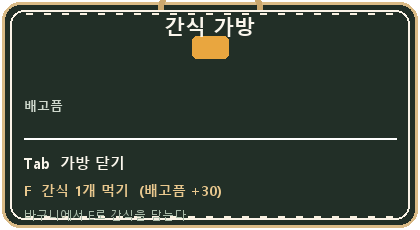
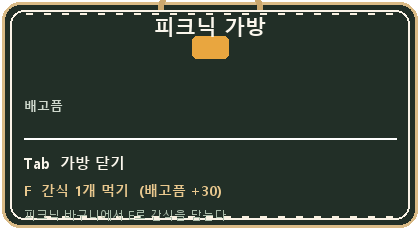
피크닉 바구니와 피크닉 가방으로 용어·이미지 변경

Changed region(s): [[0.3714, 0.0609, 0.65, 0.1826], [0.0619, 0.913, 0.5262, 0.9739]]

diff --git a/Project/pico_heist/game.py b/Project/pico_heist/game.py
@@ -58,7 +58,7 @@ FISH_COOLDOWN = 0.55    # 한 번 낚은 뒤 다시 시도할 수 있는 시간
 FISH_ANIM = 1.2         # 물고기가 떠오르는 연출 시간
 FISH_NOISE = 26.0       # 낚시 성공 시 발소리 대신 퍼지는 소음
 
-# ---- 배고픔 / 간식 바구니 (진짜 음식 규칙과 완전히 별개)
+# ---- 배고픔 / 피크닉 바구니 (진짜 음식 규칙과 완전히 별개)
 HUNGER_MAX = 100.0
 HUNGER_DRAIN = HUNGER_MAX / 150.0   # 아무것도 안 먹으면 약 150초에 0
 HUNGER_SLOW_AT = 60.0              # 이 값 아래서부터 화면이 어두워지고 느려진다
@@ -437,8 +437,8 @@ class Food:
         self.t = (index * 1.7) % 6.28
 
 
-class SnackBasket:
-    """맵에 놓인 작은 캔버스 간식 바구니 — 진짜 음식과 무관한 별도 자원."""
+class PicnicBasket:
+    """맵에 놓인 피크닉 바구니 — 안에 간식이 들어 있는 별도 자원."""
 
     def __init__(self, x, y, index, left=SNACK_PER_BASKET):
         self.x, self.y = float(x), float(y)
@@ -450,7 +450,7 @@ class SnackBasket:
         return self.left <= 0
 
     def sprite(self):
-        return "prop_snack_basket_open.png" if self.empty else "prop_snack_basket.png"
+        return "prop_picnic_basket_open.png" if self.empty else "prop_picnic_basket.png"
 
 
 class Game:
@@ -537,11 +537,11 @@ class Game:
         self.no_go = [tuple(r) for r in d["no_go"]]
         self.foods = [Food(k, x, y, FOOD_BASE[i] + j)
                       for j, (k, x, y) in enumerate(d["foods"])]
-        # 간식 바구니는 맵 데이터에 따로 있다 — 비운 바구니는 다시 오지 않아도 비어 있다.
-        self.baskets = [SnackBasket(x, y, j,
-                                    left=0 if (i, j) in self.emptied_baskets
-                                    else SNACK_PER_BASKET)
-                        for j, (x, y) in enumerate(d.get("snack_baskets", []))]
+        # 피크닉 바구니는 맵 데이터에 따로 있다 — 비운 바구니는 다시 오지 않아도 비어 있다.
+        self.baskets = [PicnicBasket(x, y, j,
+                                     left=0 if (i, j) in self.emptied_baskets
+                                     else SNACK_PER_BASKET)
+                        for j, (x, y) in enumerate(d.get("picnic_baskets", []))]
         self.prompt_basket = None
         self.campers = [Camper(c) for c in d["campers"]]
         self.player = Player(*d["player"])
@@ -620,7 +620,7 @@ class Game:
         food = Food(k, fx, fy, idx)
         food.collected = idx in self.collected
         self.foods = [food]
-        # 텐트 안에는 간식 바구니가 없다 (배고픔 상태는 그대로 유지).
+        # 텐트 안에는 피크닉 바구니가 없다 (배고픔 상태는 그대로 유지).
         self.baskets = []
         self.prompt_basket = None
         self.campers = [Camper(c) for c in t["campers"]]
@@ -689,7 +689,7 @@ class Game:
         self.solids, self.no_go = [], []
         self.campers = []
         self.foods = []
-        # 호숫가 배 위에는 간식 바구니가 없다.
+        # 호숫가 배 위에는 피크닉 바구니가 없다.
         self.baskets = []
         self.prompt_basket = None
         self.door = None
@@ -1416,7 +1416,7 @@ class Game:
         self.img("food_%s.png" % f.kind).draw(f.x, H - f.y + bob, 54, 54)
 
     def draw_basket(self, b):
-        """캔버스 간식 바구니 — 진짜 음식의 호박색 발광보다 훨씬 약하게 표시."""
+        """피크닉 바구니 — 진짜 음식의 호박색 발광보다 훨씬 약하게 표시."""
         self.img("shadow.png").draw(b.x, H - b.y + 6, 62, 20)
         im = self.img(b.sprite())
         im.draw(b.x, H - b.y + im.h / 2 - 3, im.w, im.h)
@@ -1631,7 +1631,7 @@ class Game:
                               else "hud_prompt_fish.png")
                 fi.draw(self.player.x, H - self.player.y + 92, fi.w, fi.h)
 
-        # Tab — 간식 가방 패널 (작은 천 주머니 UI, 월드 가상에 띄운다)
+        # Tab — 피크닉 가방 패널 (작은 천 주머니 UI, 월드 위에 띄운다)
         if self.state == "playing" and self.bag_open:
             self.img("hud_bag.png").draw(W / 2, H / 2, 420, 230)
             bx0 = W / 2 - 160

diff --git a/Project/pico_heist/art_sprites.py b/Project/pico_heist/art_sprites.py
@@ -428,35 +428,51 @@ def crate():
     return down(im, w, h)
 
 
-def snack_basket(open_=False):
-    """작은 캔버스 간식 꾸러미 — 나무 상자보다 작고 부드러운 캠핑 짐."""
-    w, h, ss = 72, 56, 3
+def picnic_basket(open_=False):
+    """캠핑장에 놓인 피크닉 바구니 — 짜인 라탄 손잡이와 체크 무늬 보자기."""
+    w, h, ss = 78, 62, 3
     im = Image.new("RGBA", (w * ss, h * ss), (0, 0, 0, 0))
     p = Pen(im, ss)
     if open_:
-        # 뒤로 젖혀진 뚜껑 + 비어 있는 어두운 내부
-        p.rr((14, 6, 58, 20), 4, "#D9BC88")
-        p.rr((14, 6, 58, 12), 3, "#C7A570")
-        p.ell((14, 18, 58, 32), "#4A3626")
-        p.ell((19, 21, 53, 30), "#5C4530")
+        # 뒤로 젖혀진 뚜껑 — 안쪽 체크 무늬가 보인다
+        p.rr((12, 6, 66, 20), 4, "#B98A4E")
+        p.rr((14, 8, 64, 17), 3, "#D6AE70")
+        for x in range(16, 64, 10):
+            p.pline([(x, 8), (x, 17)], "#8A6337", 1)
+        p.arc((22, 2, 56, 30), 190, 350, "#8A6337", 3)
+        p.ell((14, 20, 64, 32), "#3E2C1E")
+        p.ell((18, 22, 60, 30), "#C0563C")
+        for x in (24, 36, 48):
+            p.rr((x, 22, x + 5, 30), 1, "#F2E4C8")
     else:
-        # 손잡이와 덮개가 보이는 닫힌 바구니
-        p.arc((20, 6, 52, 32), 180, 360, "#6B4E32", 3)
-        p.rr((12, 18, 60, 30), 5, "#DCC08C")
-        p.rr((12, 18, 60, 24), 4, "#EAD3A6")
-    # 캔버스 몸체
-    p.rr((10, 24, 62, 50), 6, "#C9A36A")
-    p.rr((10, 24, 62, 32), 5, "#D7B57E")
-    for x in (23, 36, 49):
-        p.pline([(x, 32), (x, 49)], "#A9814C", 1)
-    # 가죽 끈
-    p.rr((16, 22, 22, 50), 2, "#6B4E32")
-    p.rr((50, 22, 56, 50), 2, "#6B4E32")
-    # 호박색 간식 라벨
-    p.rr((28, 34, 44, 46), 3, "#E9A63F")
-    p.rr((31, 37, 41, 43), 1, "#6B4E32")
-    if not open_:
-        p.rr((32, 27, 40, 34), 2, "#B97C22")
+        # 단단한 아치 손잡이
+        p.arc((18, 4, 60, 34), 180, 360, "#7A5630", 5)
+        p.arc((21, 7, 57, 31), 180, 360, "#C69A5C", 3)
+        # 체크 보자기가 살짝 삐져나온다
+        p.rr((14, 18, 64, 27), 3, "#F2E4C8")
+        for x in (20, 32, 44, 56):
+            p.rr((x, 18, x + 6, 27), 1, "#C0563C")
+    # 라탄 몸체 (아래로 살짝 좁아지는 사다리꼴)
+    p.poly([(10, 25), (68, 25), (61, 56), (17, 56)], "#B98A4E")
+    p.pline([(10, 25), (17, 56)], "#7A5630", 2)
+    p.pline([(68, 25), (61, 56)], "#7A5630", 2)
+    p.pline([(17, 56), (61, 56)], "#7A5630", 2)
+    # 짜임 — 가로 띠와 엇갈리는 세로 올
+    for y in (31, 39, 47):
+        p.pline([(12, y), (66, y)], "#8A6337", 2)
+        p.pline([(12, y + 3), (66, y + 3)], "#D6AE70", 1)
+    for y, xs in ((28, (18, 30, 42, 54, 64)),
+                  (36, (22, 34, 46, 58)),
+                  (44, (20, 32, 44, 56))):
+        for x in xs:
+            p.pline([(x, y), (x - 2, y + 7)], "#D6AE70", 1)
+    # 입구 테두리와 가죽 끈
+    p.rr((8, 21, 70, 29), 4, "#8A6337")
+    p.rr((8, 21, 70, 25), 3, "#D6AE70")
+    p.rr((20, 24, 26, 56), 2, "#6B4E32")
+    p.rr((52, 24, 58, 56), 2, "#6B4E32")
+    p.rr((34, 20, 44, 29), 2, "#E9A63F")
+    p.rr((37, 22, 41, 27), 1, "#6B4E32")
     return down(im, w, h)
 
 
@@ -697,8 +713,8 @@ def build_all():
     save(booth("#B97C22"), "prop_booth_amber.png")
     save(lantern(), "prop_lantern.png")
     save(crate(), "prop_crate.png")
-    save(snack_basket(False), "prop_snack_basket.png")
-    save(snack_basket(True), "prop_snack_basket_open.png")
+    save(picnic_basket(False), "prop_picnic_basket.png")
+    save(picnic_basket(True), "prop_picnic_basket_open.png")
     save(speaker(), "prop_speaker.png")
     save(bench(), "prop_bench.png")
     save(grill(), "prop_grill.png")

diff --git a/Project/pico_heist/maps.py b/Project/pico_heist/maps.py
@@ -46,8 +46,8 @@ MAPS = [
             ("apple", 240, 620),
             ("cheese", 900, 430),
         ],
-        # 간식 바구니 — 취사 구역 / 틸 텐트 옆. 진짜 음식 위치와 무관하다.
-        "snack_baskets": [(650, 585), (1100, 330)],
+        # 피크닉 바구니 — 취사 구역 / 틸 텐트 옆. 진짜 음식 위치와 무관하다.
+        "picnic_baskets": [(650, 585), (1100, 330)],
         "campers": [
             {"variant": 0, "path": [(420, 420), (860, 420)], "speed": 58, "wait": 1.3},
             {"variant": 2, "path": [(950, 415), (1120, 480), (980, 585), (870, 500)],
@@ -138,8 +138,8 @@ MAPS = [
             ("egg", 900, 300),
             ("fish", 880, 616),   # 마지막 음식 = 진짜 음식 (호수에서 낚시로 획득)
         ],
-        # 벤치 옆 / 상자 옆 육지에만 둔다 — 부두와 물 위에는 간식 바구니가 없다.
-        "snack_baskets": [(570, 420), (1060, 450)],
+        # 벤치 옆 / 상자 옆 육지에만 둔다 — 부두와 물 위에는 피크닉 바구니가 없다.
+        "picnic_baskets": [(570, 420), (1060, 450)],
         "campers": [
             {"variant": 1, "path": [(300, 405), (720, 405), (720, 300), (300, 300)],
              "speed": 50, "wait": 0.9},
@@ -214,7 +214,7 @@ MAPS = [
             ("soup", 1150, 420),
         ],
         # 테이블 옆 / 벤치 옆. 출구 동선을 막지 않게 살짝 비껴 둔다.
-        "snack_baskets": [(700, 540), (940, 630)],
+        "picnic_baskets": [(700, 540), (940, 630)],
         "campers": [
             {"variant": 0, "path": [(300, 420), (600, 420), (600, 560), (300, 560)],
              "speed": 52, "wait": 0.4},

diff --git a/Project/pico_heist/make_assets.py b/Project/pico_heist/make_assets.py
@@ -421,7 +421,7 @@ def slot(empty=True):
 
 def controls():
     items = [("WASD", "이동"), ("SHIFT", "달리기"), ("E", "줍기/낚시"),
-             ("TAB", "간식 가방"), ("F", "간식 먹기"),
+             ("TAB", "피크닉 가방"), ("F", "간식 먹기"),
               ("Q", "낚싯배"), ("X", "수풀 앉기"), ("R", "다시 시작")]
     fk, fl = font(11, True), font(12, True)
     spans, x = [], 16
@@ -698,12 +698,12 @@ def bag_panel():
           width=6)
     d.rounded_rectangle([w / 2 - 18, 36, w / 2 + 18, 58], 5,
                         fill=(233, 166, 63, 255))
-    text(d, (w / 2, 12), "간식 가방", 21, CREAM + (255,), anchor="ma")
+    text(d, (w / 2, 12), "피크닉 가방", 21, CREAM + (255,), anchor="ma")
     text(d, (24, 96), "배고픔", 13, (206, 216, 204, 255))
     d.line([24, 138, w - 24, 138], fill=(255, 255, 255, 30), width=2)
     text(d, (24, 152), "Tab  가방 닫기", 15, CREAM + (255,))
     text(d, (24, 180), "F  간식 1개 먹기  (배고픔 +30)", 14, (233, 200, 142, 255))
-    text(d, (24, 206), "바구니에서 E로 간식을 담는다", 12, (168, 186, 168, 255),
+    text(d, (24, 206), "피크닉 바구니에서 E로 간식을 담는다", 12, (168, 186, 168, 255),
          bold=False)
     return im
 

diff --git a/Project/pico_heist/main.py b/Project/pico_heist/main.py
@@ -3,7 +3,7 @@
 
     python main.py
 
-WASD 이동  ·  E 음식 줍기/간식 꺼내기/배 위 낚시 홀드→초록 구간에서 떼기  ·  TAB 간식 가방  ·  F 간식 먹기  ·  Q 낚싯배 타기·낚시터 하선  ·  X 수풀 앉기  ·  R 다시 시작  ·  ESC 종료
+WASD 이동  ·  E 음식 줍기/간식 꺼내기/배 위 낚시 홀드→초록 구간에서 떼기  ·  TAB 피크닉 가방  ·  F 간식 먹기  ·  Q 낚싯배 타기·낚시터 하선  ·  X 수풀 앉기  ·  R 다시 시작  ·  ESC 종료
 """
 import pico2d
 from pico2d import (SDLK_a, SDLK_d, SDLK_e, SDLK_LEFT, SDLK_LSHIFT,

diff --git a/Project/pico_heist/README.md b/Project/pico_heist/README.md
@@ -23,8 +23,8 @@ python main.py
 |---|---|
 | WASD / 방향키 | 이동 (발소리 작음) · 낚싯배 조종 |
 | **Shift** | 달리기 (빠르지만 발소리가 크다) |
-| E | 음식 줍기 / **간식 바구니에서 간식 꺼내기** / 텐트 안으로 · 밖으로 / **출구 게이트에서 다음 맵·완료** / **호숫가 배 위에서 홀드 → 초록 구간에서 떼어 낚시** |
-| **TAB** | 간식 가방 열기 / 닫기 (배고픔 게이지와 간식 개수 확인) |
+| E | 음식 줍기 / **피크닉 바구니에서 간식 꺼내기** / 텐트 안으로 · 밖으로 / **출구 게이트에서 다음 맵·완료** / **호숫가 배 위에서 홀드 → 초록 구간에서 떼어 낚시** |
+| **TAB** | 피크닉 가방 열기 / 닫기 (배고픔 게이지와 간식 개수 확인) |
 | **F** | 간식 1개 먹기 (배고픔 +30, 짧은 소음) |
 | **Q** | 부두에서 낚싯배 타기 · 호숫가 아래 끝에서 2번 맵으로 복귀 · 원래 부두에서 하선 |
 | **X** | 수풀 안에서 앉기 / 일어나기 (수풀 밖에서는 무시) |
@@ -46,8 +46,8 @@ python main.py
 - 앉아 있는 동안에는 **감지 반경 안(근거리·원거리)에 있어도 눈치채지 못한다.** 자는 사람도, 추격 중인 사람도 놓친다. 수풀을 나오면 자동으로 일어난다.
 - **진짜 음식 3개(맵마다 마지막 음식 1개)를 모두 모으면 마지막 출구가 열린다.** 게이트까지 걸어가 **E**를 눌러야 최종 클리어. R로 즉시 재시작.
 - 상단 HUD는 **15칸을 그대로 유지**해 어떤 음식을 모았는지 보여준다. 별(★)이 붙은 3칸이 진짜 음식이고, 왼쪽 위에 **“남은 음식: N개”**(현재 맵 기준 5→0)와 **“진짜 음식: N/3”**이 함께 표시된다.
-- **간식은 진짜 음식과 완전히 별개다.** 육지 맵마다 작고 부드러운 **캔버스 간식 바구니 2개**를 두며(호숫가 배 위 맵에는 없음), 바구니 앞에서 **E**를 누르면 **간식 2개**를 꺼낸다. 꺼낸 바구니는 뚜껑이 열린 모습으로 바뀌고 다시 채워지지 않는다. 진짜 음식은 마시멜로·생선·수프처럼 **원래 있던 자리(텐트·낚시·부스)에 그대로** 있다.
-- **Tab**으로 간식 가방 패널을 열고, **F**로 간식 1개를 먹는다. 배고픔 **+30**, **0.4초 짧은 정지**, 소음 **+6**(수풀 안에서는 감소). 간식 개수는 15칸 음식 HUD와 분리된 자체 카운터로만 표시된다.
+- **간식은 진짜 음식과 완전히 별개다.** 육지 맵마다 **라탄 손잡이와 체크 보자기가 있는 피크닉 바구니 2개**를 두며(호숫가 배 위 맵에는 없음), 바구니 앞에서 **E**를 누르면 **간식 2개**를 꺼낸다. 꺼낸 바구니는 뚜껑이 열린 모습으로 바뀌고 다시 채워지지 않는다. 진짜 음식은 마시멜로·생선·수프처럼 **원래 있던 자리(텐트·낚시·부스)에 그대로** 있다.
+- **Tab**으로 피크닉 가방 패널을 열고, **F**로 간식 1개를 먹는다. 배고픔 **+30**, **0.4초 짧은 정지**, 소음 **+6**(수풀 안에서는 감소). 간식 개수는 15칸 음식 HUD와 분리된 자체 카운터로만 표시된다.
 - **배고픔은 약 150초에 100→0**으로 줄어든다. 60 아래부터 화면 가장자리가 점점 어두워지고 이동 속도가 서서히 떨어져, 0이 되어도 **25% 속도**로 움직인다. **게임 오버는 없고**, 맵 진행 조건도 절대 바뀌지 않는다.
 - 맵이 넘어가면서 시간이 흐른다: **숲속 = 한낮 → 호숫가 = 해 질 녘 → 야간 축제 = 밤**
 - **호숫가 낚시**: 2번 맵의 배는 **부두 위가 아니라 바로 옆 물에 떠 있다.** 부두 위 사람이 **Q**를 누르면 낚싯배에 탄다. **WASD / 방향키로 배를 직접 조종**하며(자동 항해 없음), **물 영역(y 468~720) 안에서만** 움직인다. 화면 아래 왼쪽·오른쪽 끝과 아래끝까지 이동할 수 있고, 물 아래쪽 끝의 **‘호숫가 이동’ 표지**에 닿으면 **새로운 호숫가 낚시 맵**(`bg_lake_open.png`)으로 전환된다. 낚시 맵에서도 **수면(y 280~720) 안에서만** 움직이며, 위쪽 하늘·산 쪽으로는 올라갈 수 없다. **E를 1.5초 홀드**하면 게이지가 차고, 움직이는 **초록 구간이 가운데 낚시 바늘에 들어온 순간 E를 떼면** 물고기가 튀어 오르며 소음이 퍼진다. 구간 밖에서 떼거나 너무 오래 잡고 있으면 도망친다. 낚시 맵에서는 **여기서 내리지 않고**, 아래쪽 끝의 **‘부두로 이동’ 안내**를 따라 배를 몰고 **Q**를 누르면 **2번 맵의 원래 부두로 돌아온다.** 돌아온 뒤에도 **배에 탄 상태**이며, **원래 부두에 배가 매어져 있을 때만 ‘배에서 내리기’ 문구가 뜨고 Q로 하선**한다. 부두를 떠나 있으면 Q를 눌러도 내리지 않는다. 하선 후 배는 물 위 원래 자리에 그대로 남고, 사람은 부두 위로 올라온다.
@@ -62,7 +62,7 @@ python main.py
 
 - **1번 맵에만 텐트 안** 서브 맵이 있다. 텐트 앞 출입구(반짝이는 표시)에서 **E**로 들어가고, 안쪽 출입구에서 다시 **E**로 나온다. 2번 맵의 텐트는 장식이다.
 - 2번 맵에는 **부두 위에 서 있는 사람이 없다.** 대신 호숫가 언덕에 **앉아서 낚시하는 캠핑객**이 물을 바라보며 앉아 있다(낚싯줄과 물결 연출 포함).
-- **간식 바구니 배치**: 1번 맵은 취사 구역 `(650,585)` + 틸 텐트 옆 `(1100,330)`, 2번 맵은 벤치 옆 `(570,420)` + 상자 옆 `(1060,450)`, 3번 맵은 테이블 옆 `(700,540)` + 벤치 옆 `(940,630)`. 2번 맵 바구니는 물(y 468) 위가 아니라 육지에만 있다.
+- **피크닉 바구니 배치**: 1번 맵은 취사 구역 `(650,585)` + 틸 텐트 옆 `(1100,330)`, 2번 맵은 벤치 옆 `(570,420)` + 상자 옆 `(1060,450)`, 3번 맵은 테이블 옆 `(700,540)` + 벤치 옆 `(940,630)`. 2번 맵 바구니는 물(y 468) 위가 아니라 육지에만 있다.
 - 텐트 안에는 **자는 사람**이 있다. 시야는 없지만 **가까이 가면 감지도가 아주 급격하게 오른다**.
 - 텐트 안에는 테이블·쿨러·크레이트 짐더미까지 **소품 11개**가 있어 문에서 음식까지 동선이 한 번씩 꺾인다. 테이블은 추격 시야를 끊는 유일한 엄폐물이다. (자는 사람은 소리를 듣지 않으므로 이 소품들은 감지 수치를 낮추지 않고, 동선만 늘린다.)
 - 텐트 안에서 쫓기면 출입구로 도망쳐 나올 수 있다 (나가는 순간 추격 종료).
@@ -118,7 +118,7 @@ pico_heist/
 ```
 
 - 맵 추가는 `maps.py`의 `MAPS` 리스트에 딕셔너리 하나를 더 넣으면 됩니다.
-- 텐트는 `tent` 서브 맵(1번 맵만), 호숫가는 `boat`(부두 옆 물 위 배) + `dock`/`dock_stand`(부두 판자와 하선 지점) + `lake`(낚시 전용 서브 맵)로 데이터를 분리했습니다. 간식은 `snack_baskets`로 음식 데이터와 완전히 따로 둡니다.
+- 텐트는 `tent` 서브 맵(1번 맵만), 호숫가는 `boat`(부두 옆 물 위 배) + `dock`/`dock_stand`(부두 판자와 하선 지점) + `lake`(낚시 전용 서브 맵)로 데이터를 분리했습니다. 간식은 `picnic_baskets`로 음식 데이터와 완전히 따로 둡니다.
 - 로직은 맵 데이터와 분리되어 있어, 좌표만 바꿔도 게임이 그대로 동작합니다.
 
 ## 상태 흐름
@@ -168,7 +168,7 @@ pico2d 창을 띄운 상태에서 로직을 직접 실행하는 자동 검증 24
 - **낚싯배는 부두 위가 아니라 옆 물에 떠 있음 · 탑승/하선은 부두 위에서 · 낚시 맵 배는 수면 상단(y 280) 아래에서만 움직여 산·하늘 진입 불가**
 - **걸어서 다음 맵으로: 맵 완료 시 게이트 + 길 표지 표시, 게이트 밖에서는 E 프롬프트 없음, 낚시 후 부두 복귀에도 출구 유지, 마지막 게이트 E에서만 win**
 - **HUD 15칸 유지, 별 표시 + 남은 음식(5→0)/진짜 음식(0/3) 카운터 검증**
-- **간식 바구니 2개/맵(호숫가 배 맵 없음), E 꺼내기 2개, 빈 바구니 유지, Tab 가방·F 섭취 검증**
+- **피크닉 바구니 2개/맵(호숫가 배 맵 없음), E 꺼내기 2개, 빈 바구니 유지, Tab 가방·F 섭취 검증**
 - **배고픔 150초 감소, 60 이하 감속/비네트, 0에서도 25% 속도 유지, 간식이 진짜 음식 수집에 영향 없음 검증**
 - 맵/음식 데이터, 15종 음식 중복 없음, 맵마다 수풀 5개 이상, 텐트 소품 포함 모든 스프라이트 존재
 - 텐트 소품 11개(테이블 엄폐 포함), 텐트 음식이 항상 자는 사람의 위험 반경 안에 있는지
